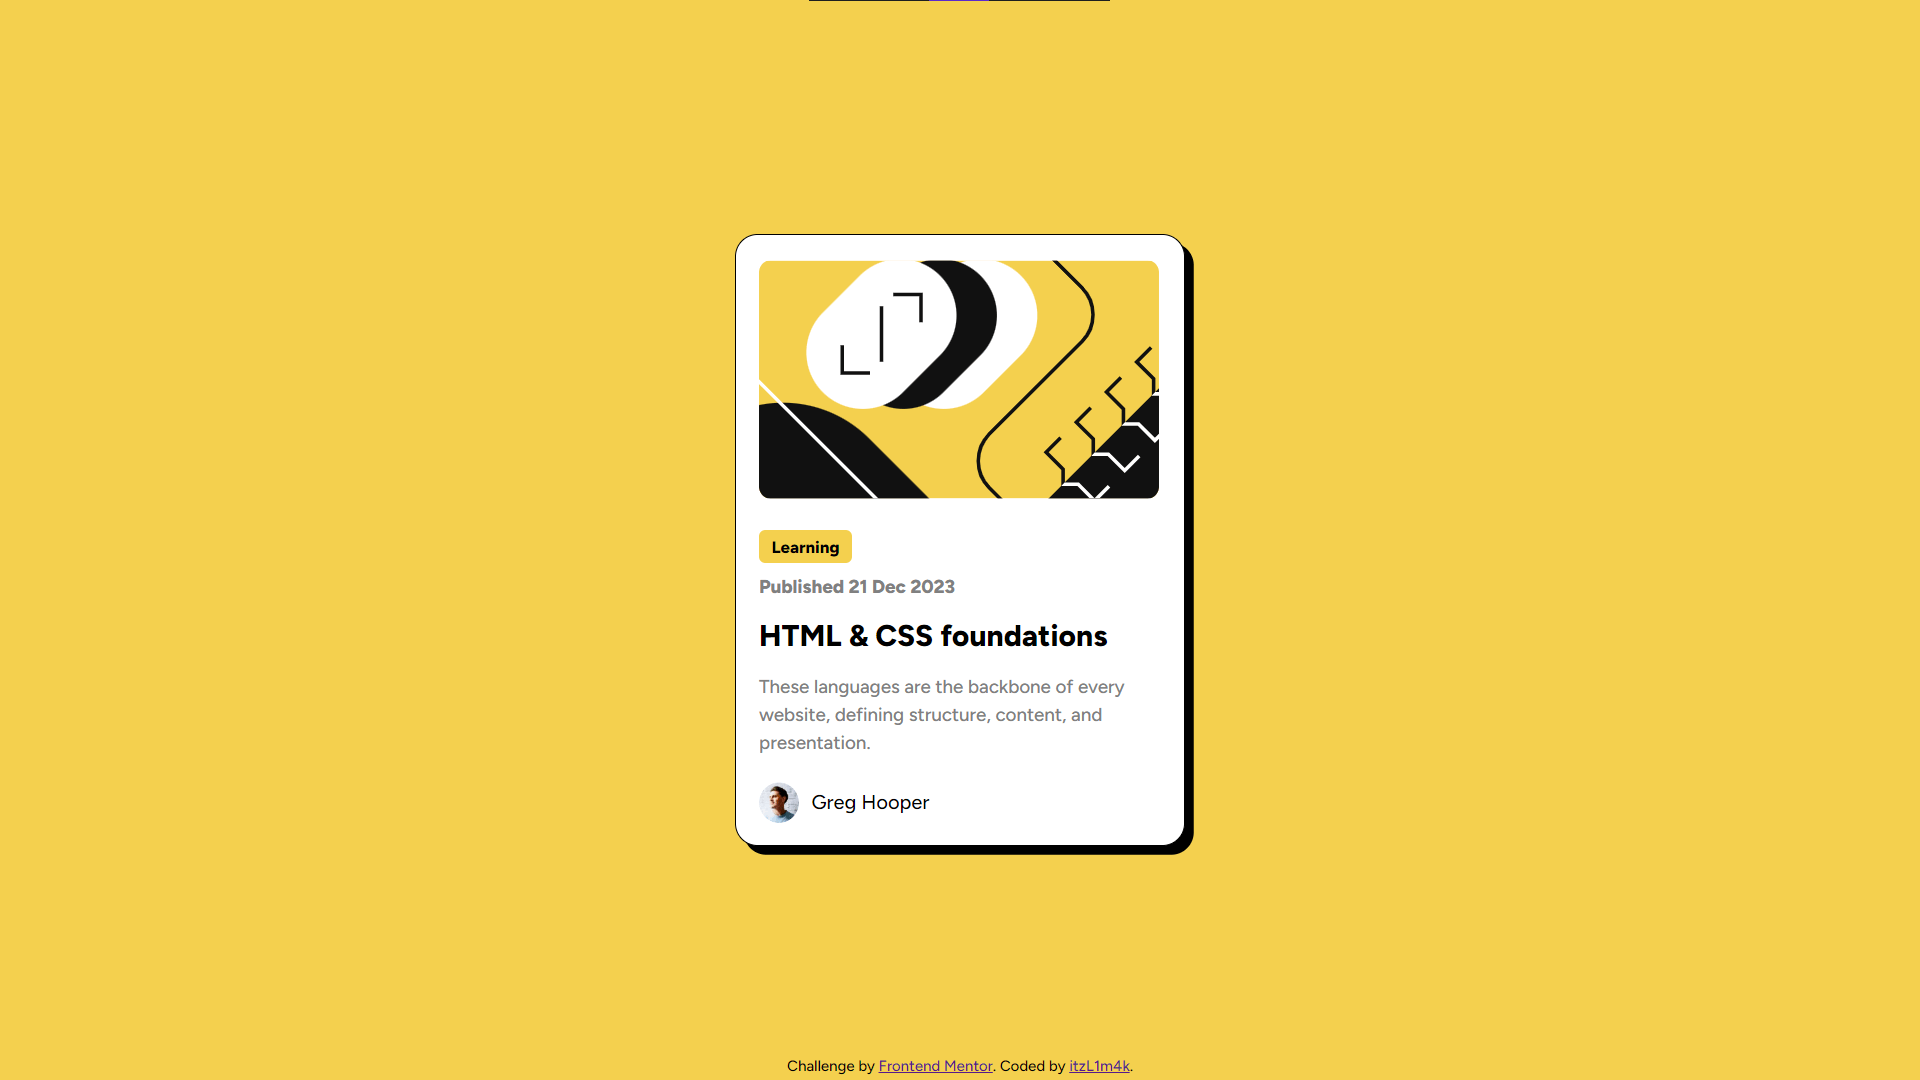
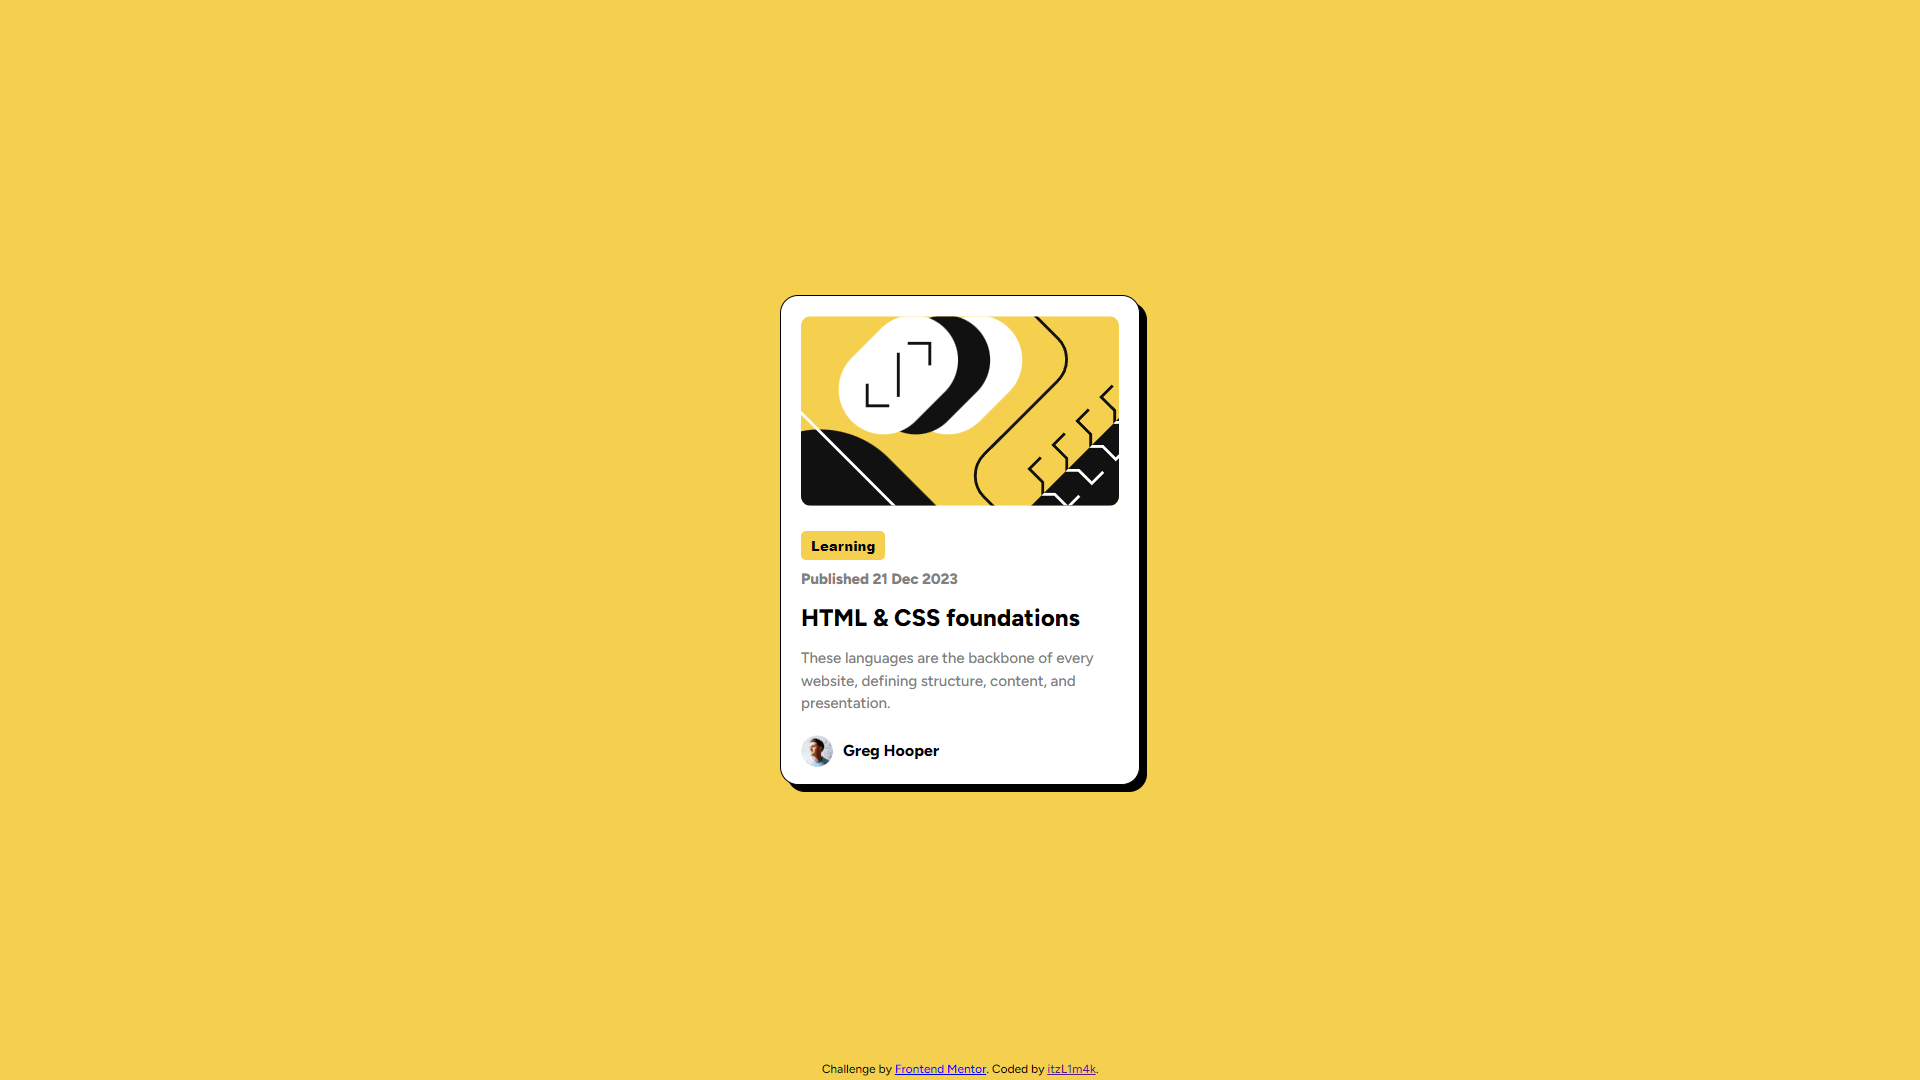
corrections

Changed region(s): [[0.375, 0.2139, 0.625, 0.7944], [0.4062, 0.9778, 0.5938, 1.0]]

diff --git a/style.css b/style.css
@@ -11,10 +11,11 @@
   margin: 0;
   padding: 0;
   box-sizing: border-box;
-  font-family: 'Figtree', sans-serif;
+  transition: ease-in-out 0.7s;
 }
 
 body {
+  font-family: 'Figtree', sans-serif;
   background-color: var(--yellow);
   display: flex;
   justify-content: center;
@@ -36,17 +37,17 @@ body {
   border: 1px solid var(--black);
 }
 
+#illustration {
+  width: 100%;
+  border-radius: 10px;
+  margin-bottom: 25px;
+}
+
 .footer {
   display: flex;
   align-items: center;
   gap: 10px;
   margin-top: 20px;
-}
-
-#illustration {
-  width: 320px;
-  border-radius: 10px;
-  margin-bottom: 25px;
 }
 
 #avatar {
@@ -75,12 +76,12 @@ span {
 h2 {
   color: var(--black);
   margin-bottom: 15px;
+  transition: 0.3s;
 }
 
-h2:hover {
+h2:hover,
+h2:focus {
   color: var(--yellow);
-  transition: 0.3s;
-  cursor: pointer;
 }
 
 #discription {
@@ -89,7 +90,7 @@ h2:hover {
   line-height: 1.5em;
 }
 
-.avatar__paragraph {
+#avatar__paragraph {
   color: var(--black);
   font-weight: bold;
 }
@@ -103,4 +104,39 @@ h2:hover {
   padding: 4px;
   color: var(--black);
   font-size: 12px;
+}
+
+@media (max-width: 375px) {
+  .card {
+    width: 90%;
+    height: 100%;
+    padding: 4.5%;
+  }
+  .footer {
+    gap: 5px;
+    margin-top: 10px;
+  }
+  #illustration {
+    margin-bottom: 12.5px;
+  }
+  button {
+    padding: 2% 4%;
+  }
+  span {
+    font-size: 12px;
+    margin-bottom: 4%;
+  }
+  h2 {
+    font-size: 20px;
+  }
+  #discription,
+  #avatar__paragraph {
+    font-size: 12.5px;
+  }
+  #avatar {
+    width: 25px;
+  }
+  .attribution {
+    font-size: 10px;
+  }
 }
